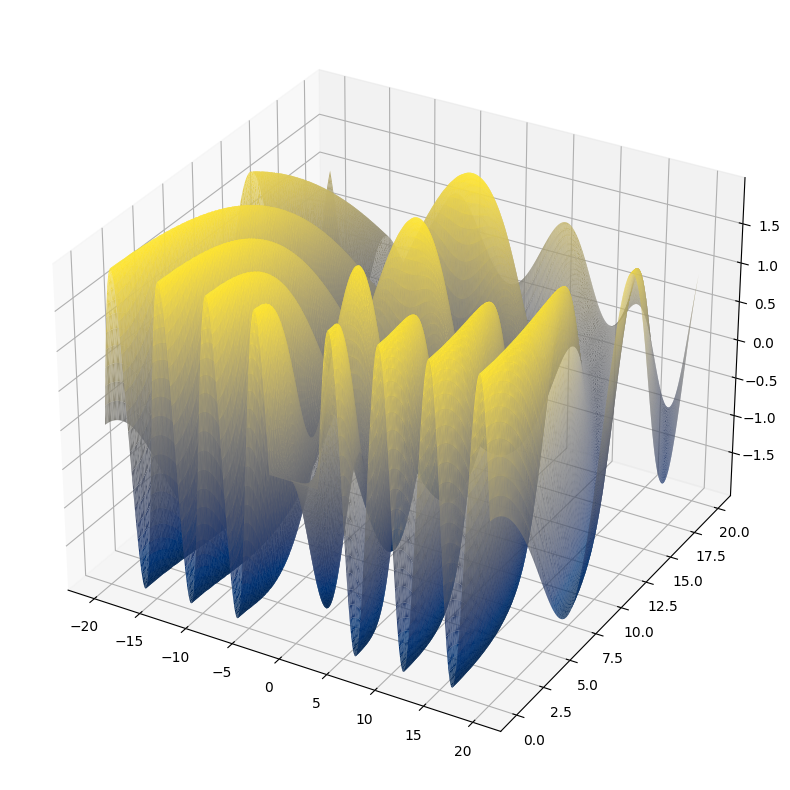
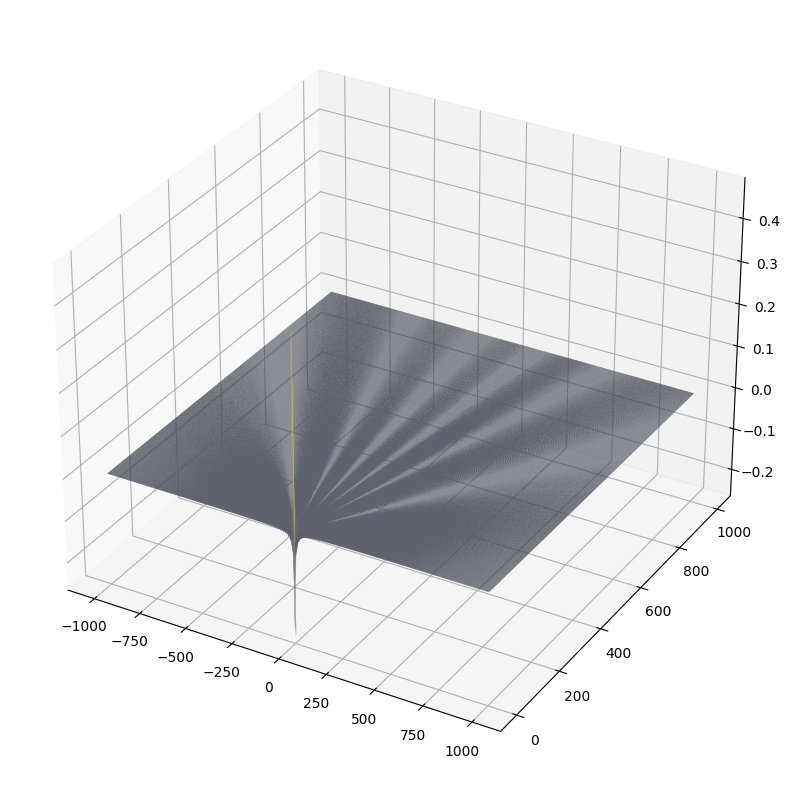
intensity change

diff --git a/dsrenderer.py b/dsrenderer.py
@@ -3,11 +3,16 @@ import pandas as pd # data processing, CSV file I/O (e.g. pd.read_csv)
 import matplotlib.pyplot as plt
 from mpl_toolkits import mplot3d
 
-d = 5 # slit seperation
-max_y = 100 # wall distance
-max_x = 100 # peaks included
-point_step = 0.1 # amount of points between 0 and max
-wavelength = 5
+slit_sep = 154 # slit seperation in micrometers
+d = slit_sep * 10**(-3) # slit sep in mm
+max_y = 1400 # wall distance in mm
+max_x = 10000 # peaks included 
+point_step = 5 # resolution, should be integer
+wavelength_input = 632.8 # wavelength in nanometers
+λ = wavelength_input * 10**(-6) # wavelength in millimeters
+f = 3.00 * (10**8) / (wavelength_input * 10**(-9))
+h = 4.135 * 10**(-15)
+π = np.pi
 
 x_positive = d/2
 x_negative = 0 - x_positive
@@ -22,8 +27,8 @@ for y in np.arange(0, max_y, point_step):
     for x in np.arange(-max_x, max_x, point_step):
         length_positive = np.sqrt((y**2) + ((x - x_positive)**2))
         length_negative = np.sqrt((y**2) + ((x - x_negative)**2))
-        z_positive = np.sin(((2 * np.pi) / wavelength) * length_positive)
-        z_negative = np.sin(((2 * np.pi) / wavelength) * length_negative)
+        z_positive = np.sin(2 * π / λ * length_positive) * (h * f / 4 * π * length_positive**2)
+        z_negative = np.sin(2 * π / λ * length_negative) * (h * f / 4 * π * length_negative**2)
         z = z_positive + z_negative
         x_list.append(x)
         y_list.append(y)
@@ -39,4 +44,4 @@ ax = plt.axes(projection='3d')
 
 surf = ax.plot_trisurf(X, Y, Z, cmap = plt.cm.cividis)
 
-plt.savefig('foo.png', bbox_inches='tight')
+plt.savefig('sin.png', bbox_inches='tight')
